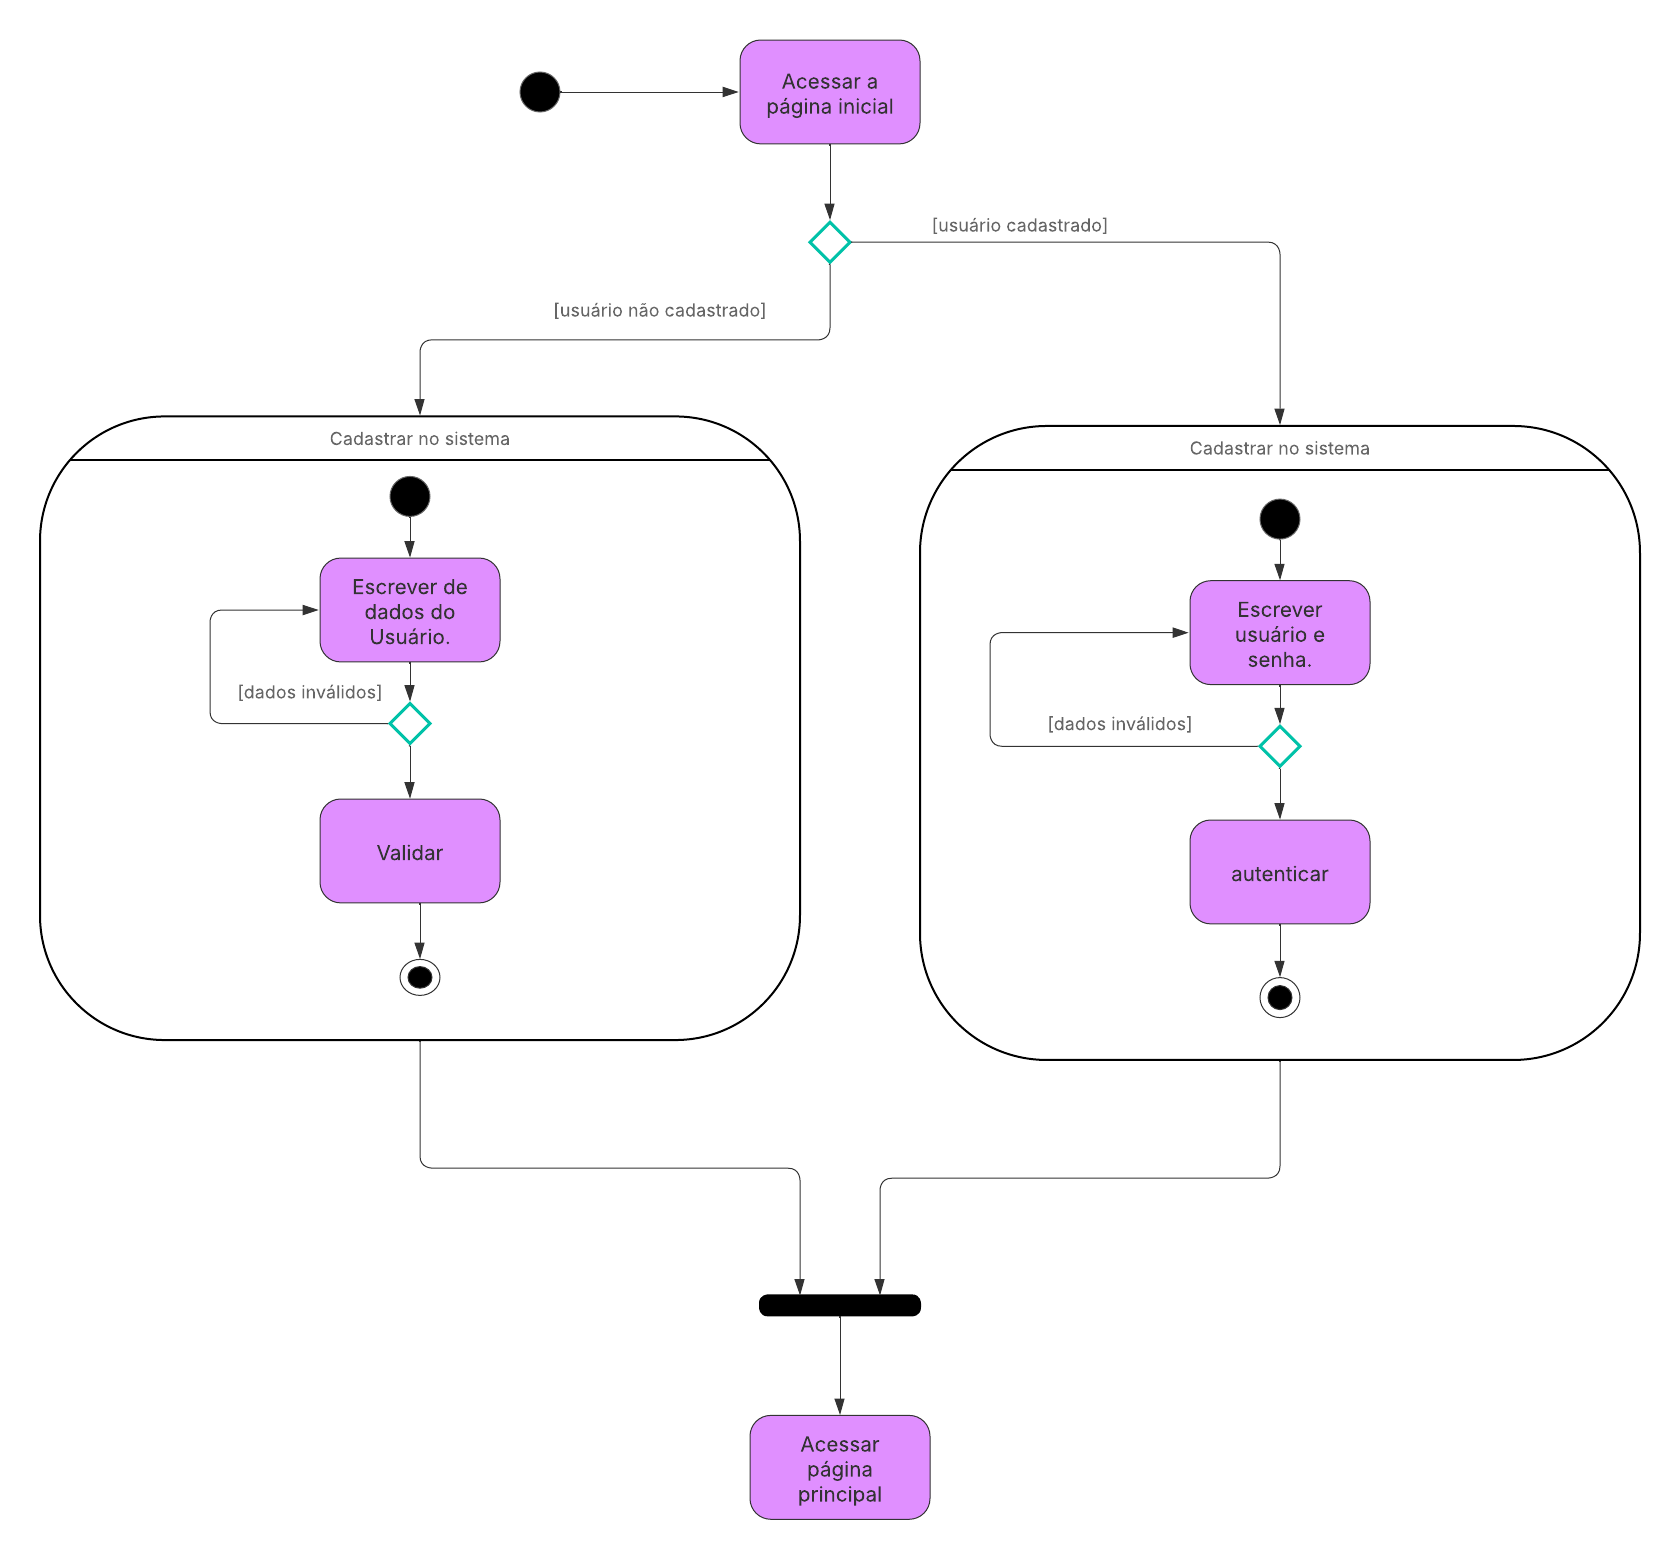
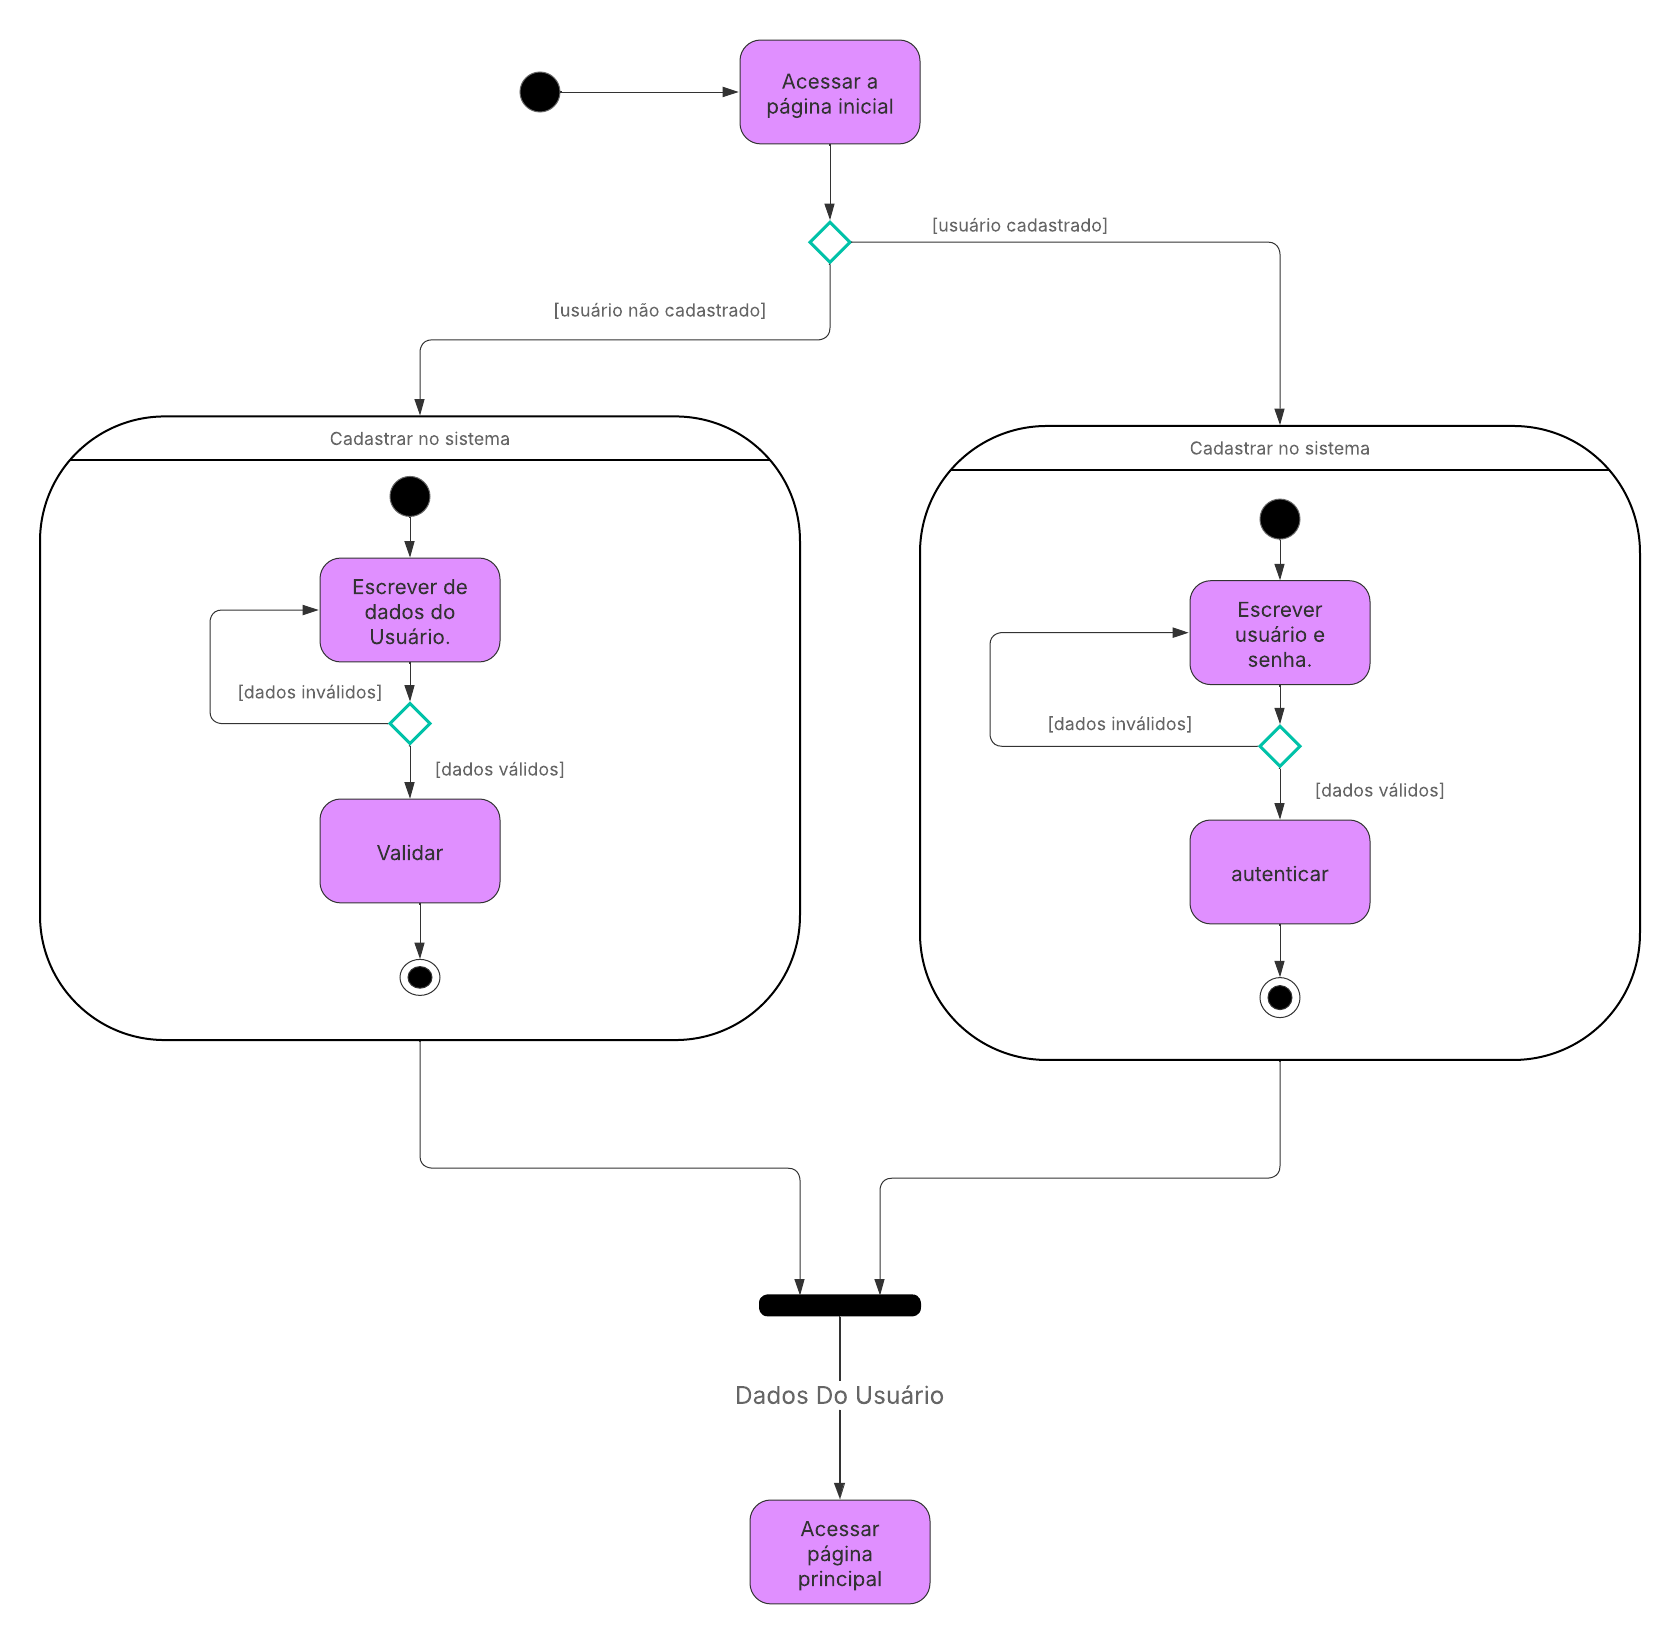
DOC#16 - adiciona o meu diagrama e correção nas fontes

diff --git a/docs/Modelagem/2.2.4.DiagramaEstado.md b/docs/Modelagem/2.2.4.DiagramaEstado.md
@@ -10,7 +10,7 @@ A análise deste artefato baseia-se no material acadêmico da disciplina de Arqu
 
 Para fazer o Diagrama de Estados foi utilizado como referência os slides [SERRANO (2025)](#ref-01) e seus componentes essenciais são detalhados a seguir.
 
-### Componentes Essenciais
+### Componentes Parte do Diagrama
 
 * **Estado:** Representa uma condição na vida de um objeto na qual ele satisfaz um critério, executa uma atividade ou aguarda um evento. Um estado pode ter ações associadas que são executadas enquanto o objeto está nesse estado, como ações de entrada (`entry`), saída (`exit`) ou contínuas (`do`). Nos exemplos do material de referência, "Pronto", "Rodando" e "Bloqueado" são estados [SERRANO (2025)](#ref-01).
 
@@ -21,8 +21,6 @@ Para fazer o Diagrama de Estados foi utilizado como referência os slides [SERRA
     * **Guarda (Guard):** Uma condição booleana que deve ser verdadeira para que a transição ocorra após o evento. No exemplo da referência, `[tem espaço]` é uma guarda [SERRANO (2025)](#ref-01).
     * **Ação (Action/Effect):** Um comportamento executado instantaneamente quando a transição ocorre. No mesmo exemplo, `/ alocar` é uma ação [SERRANO (2025)](#ref-01).
 
-* **Pseudo-estado de Histórico (H):** É utilizado para que o objeto "lembre" o último subestado ativo ao sair de um estado composto. Quando o objeto retorna, ele volta para o subestado que estava ativo anteriormente, em vez de iniciar pelo subestado inicial do estado composto [SERRANO (2025)](#ref-01).
-
 * **Concorrência:** O diagrama pode modelar estados que ocorrem simultaneamente dentro de um estado composto, separando as regiões por uma linha tracejada, chamada de "fronteira da concorrência" [SERRANO (2025)](#ref-01). No exemplo do rádio, "Mostrando hora" e "Tocando Rádio/CD" são regiões concorrentes.
 
 <div style="text-align: center;">
@@ -31,24 +29,34 @@ Para fazer o Diagrama de Estados foi utilizado como referência os slides [SERRA
 
 <img src="assets/dig_est_ex.png" >
 
-<p> <a href="#ref-01">SERRANO, Milene (2025)</a> </p>
+<p>Fonte: <a href="#ref-01">SERRANO, Milene (2025)</a> </p>
 
 </div>
 
 ## Diagrama de Estado
 
+A seguir estão as imagens dos diagramas de estados: 
 
+<div style="text-align: center;">
 
-dig_estad_ana.png
+<p>Imagem 1 - Tela de Perfil</p>
+
+<img src="assets/dig_estad_ana.png" >
+
+<p>Fonte: <a href="https://github.com/Ana-Luiza-SC">Ana Luiza Soares</a></p>
+
+</div>
+
 
 ## Referências
 
 <p><a id="ref-01">[01]</a>SERRANO, Milene. <strong>Aula - Modelagem UML Dinâmica</strong>. Material da disciplina de Arquitetura e Desenho de Software. Brasília: Universidade de Brasília, 2025. Disponível em: &lt;<a href="assets/slide_mod_din.pdf#page=21" target="_blank">link para o pdf</a>&gt;. Acesso em: 21 set.2025.</p>
 
-<p><a id="ref-02">[02]</a>UML DIAGRAMS. <strong>State Machine Diagrams</strong>. Disponível em: https://www.uml-diagrams.org/state-machine-diagrams.html. Acesso em: 21 set. 2025.</p>
+<p><a id="ref-02">[02]</a>UML DIAGRAMS. <strong>State Machine Diagrams</strong>. Disponível em: <a href="https://www.uml-diagrams.org/state-machine-diagrams.html">https://www.uml-diagrams.org/state-machine-diagrams.html</a>. Acesso em: 21 set. 2025.</p>
 
 ## Histórico de Versionamento
 
 | Versão | Data       | Descrição                                        | Autor(es)           | Revisor(es)         | Comentário do revisor | Data da revisão |
 |--------|------------|--------------------------------------------------|---------------------|---------------------|----------------------|-----------|
 | `1.0` | 21/09/2025 | Adiciona o documento inicial, com introdução, metodologia, exemplo e referências bibliográficas utilizada | [Ana Luiza](https://github.com/Ana-Luiza-SC) | - | -  | - |
+| `1.1` | 21/09/2025 | Adicono o meu diagrama. | [Ana Luiza](https://github.com/Ana-Luiza-SC) | - | -  | - |

diff --git a/docs/_sidebar.md b/docs/_sidebar.md
@@ -9,7 +9,9 @@
       - [2.1.1 Diagrama de Classes](/Modelagem/2.1.1.DiagramaClasses.md)
     - [2.2. Modelagem UML Dinâmica](/Modelagem/2.2.ModelagemDinamica.md)
       - [2.2.1 Diagrama de Sequência](/Modelagem/2.2.1.DiagramaDeSequencia.md)
+      - [2.2.2 Diagrama de Comunicação](/Modelagem/2.2.1.DiagramaDeComunicacao.md)
       - [2.2.3. Diagrama de Atividades](/Modelagem/2.2.3.DiagramaDeAtividades.md)
+      - [2.2.4. Diagrama de Estado](/Modelagem/2.2.4.DiagramaEstado.md)
     - [2.3. Modelagem UML Organizacional ou Casos de Uso](/Modelagem/2.3.ModelagemOrganizacionalCasosDeUso.md)
     - [2.4. Participações - Modelagem](/Modelagem/2.4.ParticipacoesModelagem.md)
     - [2.5. Iniciativas Extras - Modelagem](/Modelagem/2.5.IniciativasExtras.md)
